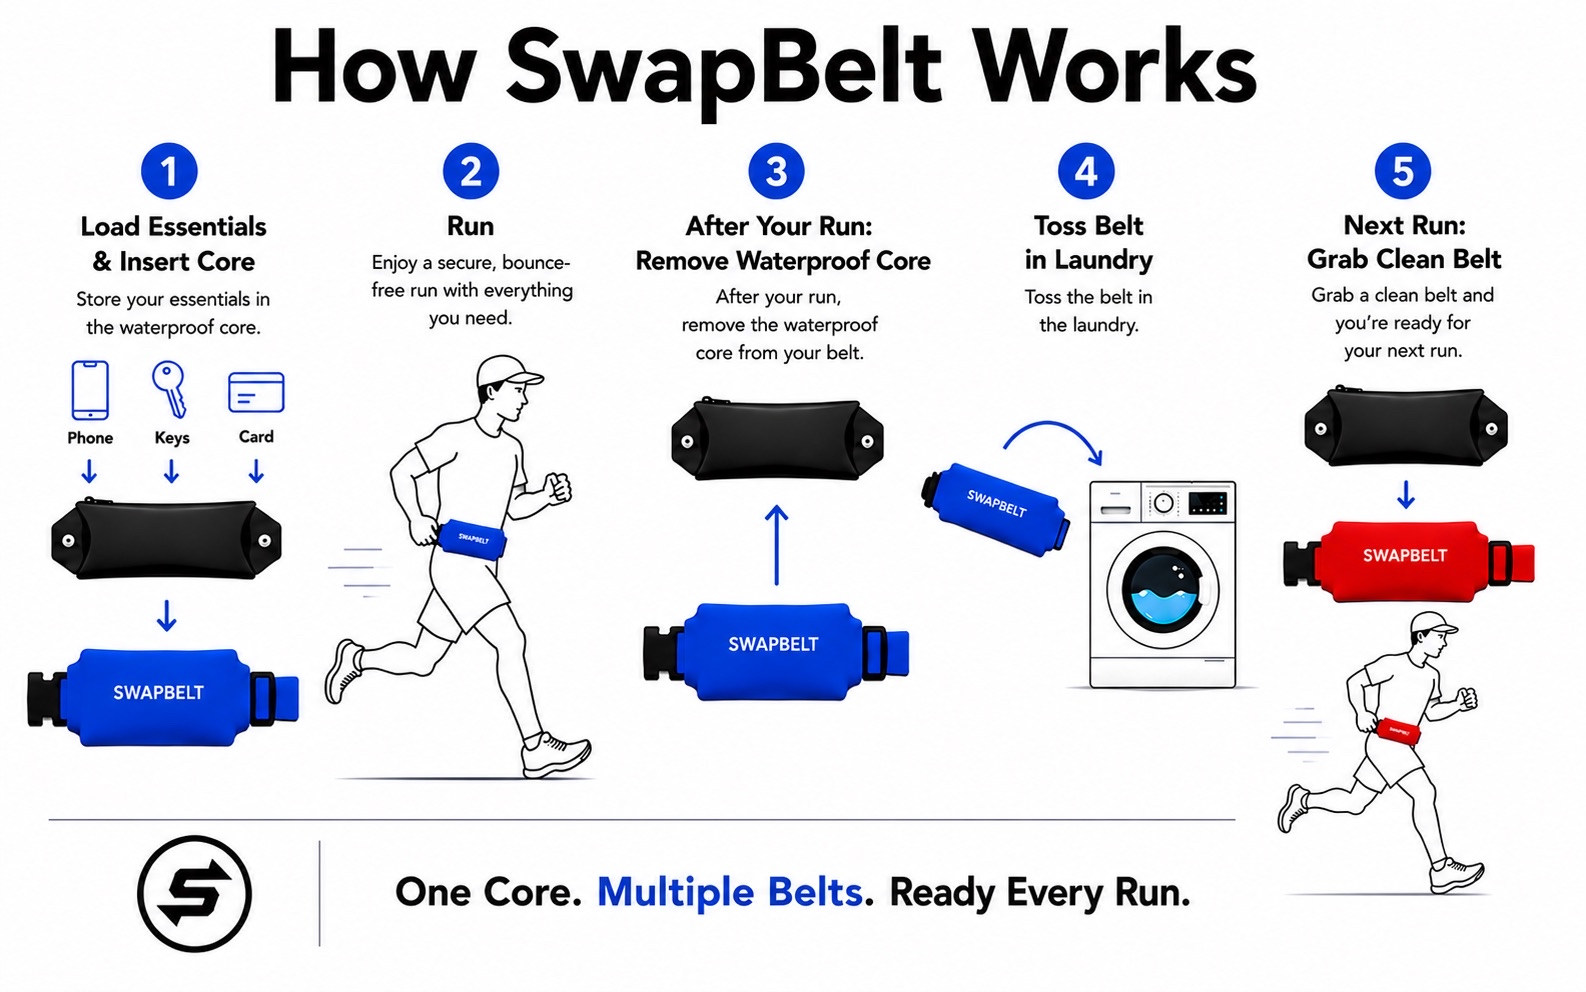
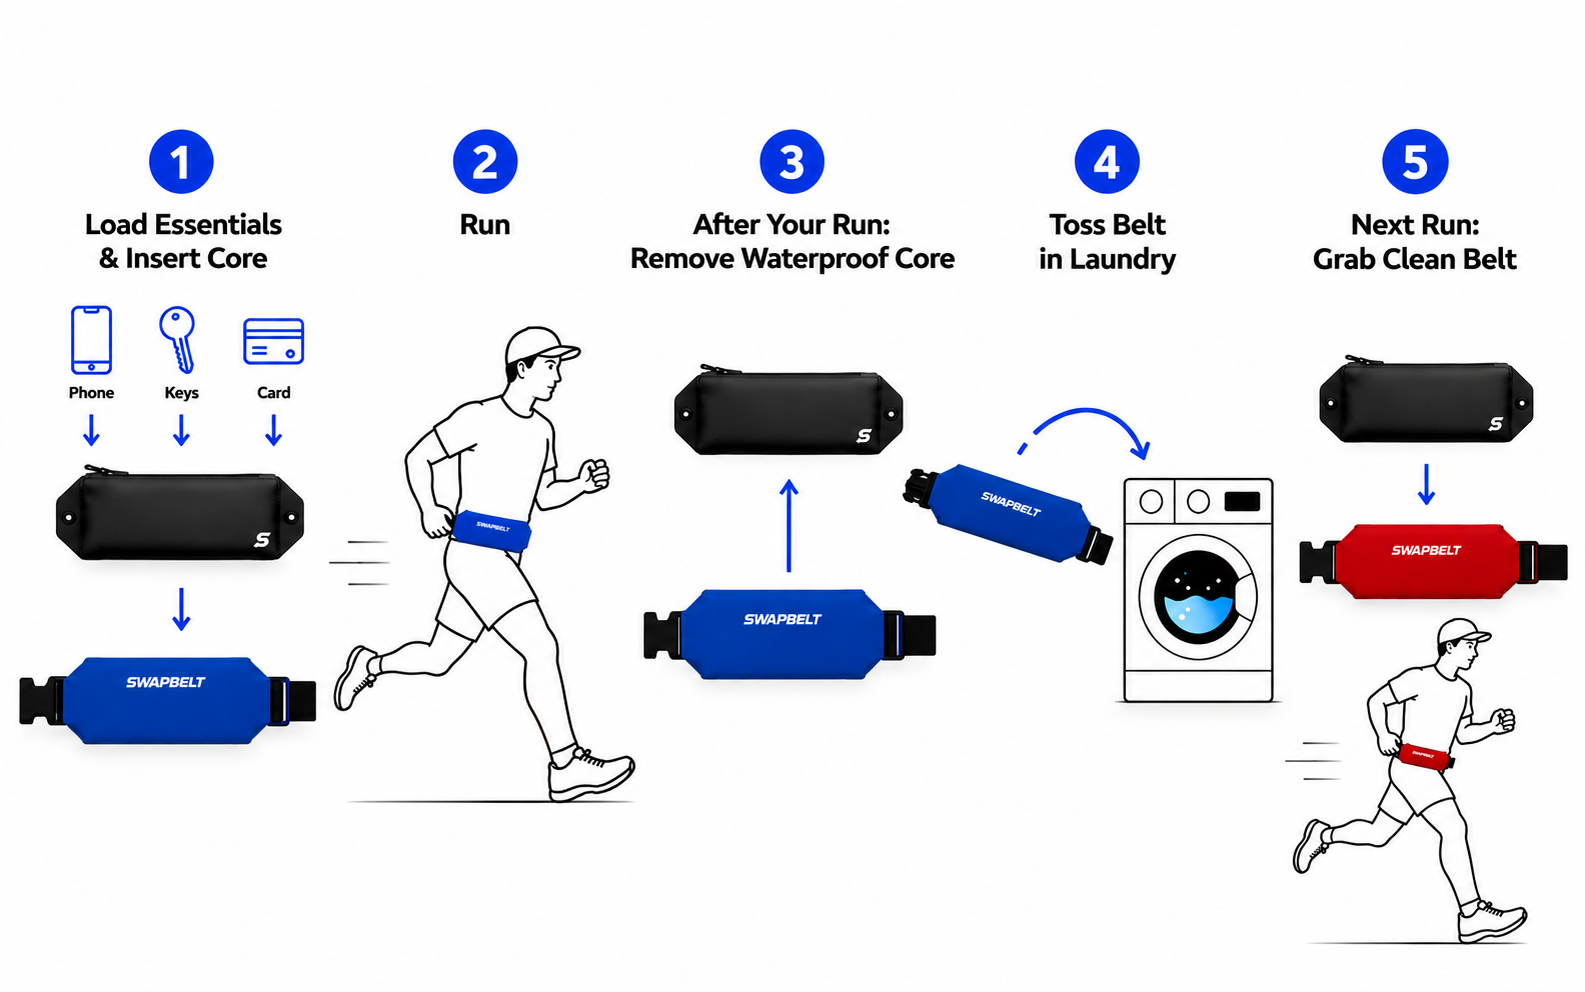
fix: correct blue swatch data-src bug; update how-it-works infographic to 5-step diagram

Changed region(s): [[0.0, 0.0312, 0.9893, 0.9688], [0.2473, 0.875, 0.742, 0.9375], [0.0618, 0.8438, 0.1855, 0.9688]]

diff --git a/index.html b/index.html
@@ -47,7 +47,7 @@
                     <div class="hero-gallery">
                         <img id="hero-gallery-main" src="assets/images/product/swapbelt-hero-pouch-to-sleeve.png" alt="Waterproof core inserting into a blue SwapBelt sleeve" class="hero-product-image">
                         <div class="hero-gallery-thumbs" role="listbox" aria-label="Choose a SwapBelt color">
-                            <button type="button" class="hero-thumb active" data-src="assets/images/product/swapbelt-hero-pouch-to-sleeve.png" data-alt="Waterproof core inserting into a blue SwapBelt sleeve" style="background-image:url('assets/images/product/swapbelt-color-blue.png')" aria-label="Blue"></button>
+                            <button type="button" class="hero-thumb active" data-src="assets/images/product/swapbelt-color-blue.png" data-alt="SwapBelt assembled in Blue" style="background-image:url('assets/images/product/swapbelt-color-blue.png')" aria-label="Blue"></button>
                             <button type="button" class="hero-thumb" data-src="assets/images/product/swapbelt-color-black.png" data-alt="SwapBelt assembled in Black" style="background-image:url('assets/images/product/swapbelt-color-black.png')" aria-label="Black"></button>
                             <button type="button" class="hero-thumb" data-src="assets/images/product/swapbelt-color-navy.png" data-alt="SwapBelt assembled in Navy" style="background-image:url('assets/images/product/swapbelt-color-navy.png')" aria-label="Navy"></button>
                             <button type="button" class="hero-thumb" data-src="assets/images/product/swapbelt-color-sage.png" data-alt="SwapBelt assembled in Sage" style="background-image:url('assets/images/product/swapbelt-color-sage.png')" aria-label="Sage"></button>
@@ -91,7 +91,7 @@
                 <h2>One waterproof core. Multiple belts.</h2>
             </div>
             <div class="section-shell infographic-panel">
-                <img src="assets/images/product/swapbelt-how-it-works-ready-every-run.png" alt="How SwapBelt Works: load essentials and insert core, run, remove waterproof core, toss belt in laundry, and grab a clean belt for the next run">
+                <img src="assets/images/product/swapbelt-how-it-works-ready-every-run.png?v=20260802c" alt="How SwapBelt Works: load essentials and insert core, run, remove waterproof core, toss belt in laundry, and grab a clean belt for the next run">
             </div>
             <div class="section-shell three-step-render-grid">
                 <figure class="render-step">
